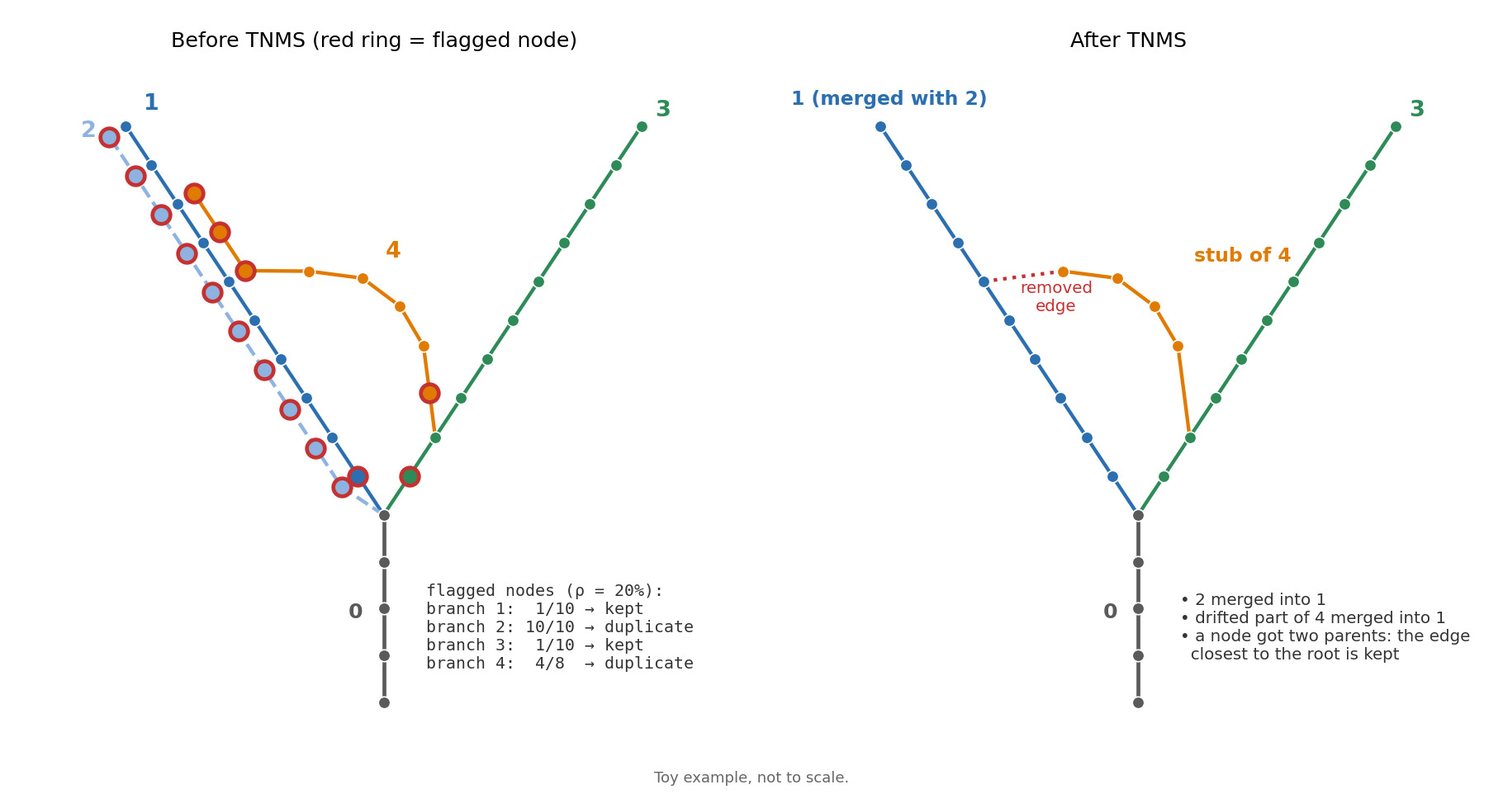
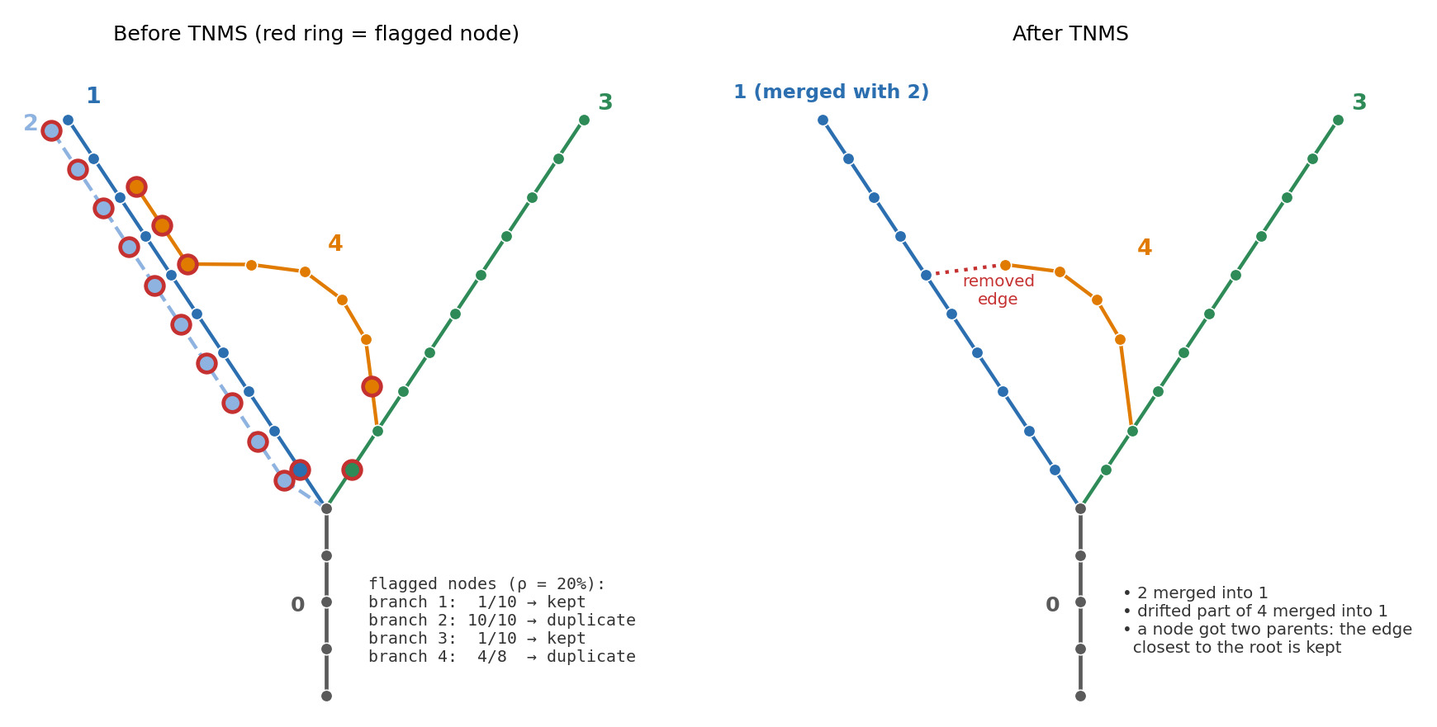
Revise RefTr review post
Rework the Training and Results sections, add the evaluation metrics
subsection, the datasets table, the method comparison figure and the
metrics figure, update the TNMS figure, and add a note on how the post
was written.

diff --git a/collections/_posts/2026-10-19-RefTr.md b/collections/_posts/2026-10-19-RefTr.md
@@ -12,11 +12,10 @@ pdf: "https://arxiv.org/pdf/2511.20823"
 
 # Highlights
 
-* RefTr extracts the **centerline tree** of tubular structures (airways, vessels) from 3D CT volumes, directly as a graph.
-* The tree is represented as a set of **confluent trajectories**: trajectories that share a common prefix and split at a predicted divergence index. The topology is therefore **valid by construction**.
-* A Transformer **Producer** proposes candidate trajectories, and a **Refiner** with shared weights improves them recurrently, with 2.4× fewer decoder parameters than Trexplorer Super (10.5M vs 25.2M).
-* During training, several predictions are assigned to each branch (**many-to-one matching**); at inference they are averaged, and leftover duplicates across patches are removed by a new **Tree Non-Maximum Suppression (TNMS)**. The authors also introduce **radius-aware** evaluation metrics.
-* Best point-level precision and recall on the three datasets (synthetic, ATM'22 airways, Parse 2022 pulmonary arteries); branch-level metrics are slightly below Trexplorer Super on Parse 2022.
+* RefTr is the **third iteration** of a tracking approach by the same group (after Trexplorer[^6] and Trexplorer Super[^7]) to extract the **centerline tree** of vessels or airways from 3D images, directly as a graph.
+* Like its predecessors, it relies on the same mechanisms as **DETR** (learned queries, Transformer decoder, Hungarian matching), applied to tracking.
+* Instead of tracking the tree **point by point**, it predicts and iteratively refines **whole trajectories**, which increases the detection rate and lets errors be corrected while a branch is being predicted. Represented as **confluent trajectories**, the tree is **valid by construction**.
+* It outperforms its predecessor Trexplorer Super on most benchmarks, and is **twice cheaper to train**, in both training time and GPU memory.
 * Code is available on the [official GitHub repo](https://github.com/RomStriker/RefTr).
 
 
@@ -24,7 +23,7 @@ pdf: "https://arxiv.org/pdf/2511.20823"
 
 # Introduction
 
-Extracting tubular trees such as vessels or airways is important for many clinical applications, such as surgical planning and navigation, or blood flow simulation. Most of the time, these applications need the full tree, and a segmentation alone is not enough: it shows where the tubes are, but not how they branch and connect. We need a model of the complete tree, represented as a centerline graph that is a valid tree and misses as few branches as possible: missing a small branch can lead to an incomplete assessment, so recall matters.
+Extracting tubular trees such as vessels or airways is important for many clinical applications, such as surgical planning and navigation, or blood flow simulation. Most of the time, these applications need the full tree, and a segmentation alone is not enough : it shows where the tubes are, but not how they branch and connect. We need a model of the complete tree, represented as a centerline graph that is a valid tree and misses as few branches as possible.
 
 To obtain such a structure, several approaches have been proposed, which the authors group into four families:
 
@@ -32,6 +31,10 @@ To obtain such a structure, several approaches have been proposed, which the aut
 * **Graph-based methods** (Relationformer[^3], Vesselformer[^4]) predict nodes and edges directly, but nothing guarantees a valid tree, and they scale poorly to large trees.
 * **Multiple-hypothesis tracking**[^5] keeps several candidate trees during reconstruction, but finally prunes all but one, discarding potentially useful structures.
 * **Tracking-based methods**, mainly Trexplorer[^6] and Trexplorer Super[^7] from the same group, follow the tree from its root, **one node at a time**. Each new node is classified as intermediate, bifurcation or end. These classifications are hard and imbalanced, which lowers recall, and an early mistake cannot be corrected.
+
+<div style="text-align:center">
+<img src="/collections/images/reftr/paradigms.jpg" width=900></div>
+<p style="text-align: center;font-style:italic">Figure 1. Three ways to extract a centerline tree. (a) Segmentation-based methods label voxels, then extract the centerline. (b) Point-by-point tracking adds one classified node at a time. (c) RefTr predicts whole trajectories from the patch center and refines them.</p>
 
 
 RefTr addresses these limitations and lists three contributions: (1) RefTr itself, (2) TNMS, an efficient algorithm to remove duplicate branches while preserving the tree topology, and (3) radius-aware evaluation metrics.
@@ -59,19 +62,17 @@ Output: centerline tree
 
 <div style="text-align:center">
 <img src="/collections/images/reftr/inference_overview.jpg" width=750></div>
-<p style="text-align: center;font-style:italic">Figure 1. Overview of the inference algorithm. TNMS is then applied once to the full tree (not shown).</p>
+<p style="text-align: center;font-style:italic">Figure 2. Overview of the inference algorithm.</p>
 
 ## Prediction and refinement
 
 <div style="text-align:center">
 <img src="/collections/images/reftr/architecture.jpg" width=750></div>
-<p style="text-align: center;font-style:italic">Figure 2. Overview of the model pipeline (figure from the paper, Fig. 1c).</p>
+<p style="text-align: center;font-style:italic">Figure 3. Overview of the model pipeline (figure from the paper, Fig. 1c).</p>
 
 ### Producer
 Features are extracted from a patch centered on a centerline voxel. An image encoder (a modified SwinUNETR, the same as in Trexplorer Super) extracts features, which are fed to the Producer, a single Transformer decoder block, together with 20 token sets, each describing a trajectory.
 Using the image features, the Producer maps the 20 trajectories to potential vessel branches starting from the patch center and outputs the 20 modified token sets.
-
-The 20 input token sets play the role of DETR's object queries (see [our DETR post](/2023/11/22/DETR.html)): they are fixed embeddings learned during training, the same for every patch. They act as a generic **template of trajectories**, independent of the image: they only become specific to the patch once cross-attention injects the image features.
 
 ### Trajectory representation
 
@@ -79,9 +80,9 @@ Each trajectory is represented by a **trajectory token set**.
 It contains:
 - 10 **node tokens**, each encoding the position and radius of a node
 - 1 **end token**, encoding the node number at which the branch ends.
-- 1 **divergence token**, encoding the route of the trajectory so it can be compared with other trajectories
+- 1 **divergence token**, encoding the route of the trajectory so it can be compared with other trajectories and predicts the node where two trajectories diverge.
 
-Unlike the context tokens, the trajectory tokens are not computed from an input. Like DETR's object queries, they are learned during training as a generic "identity card" of what a trajectory is, the same for every patch; the Producer and the Refiner then update them into trajectories adapted to the image content of the patch.
+The trajectory tokens are not computed from an input. Like DETR's object queries (see [our DETR post](/2023/11/22/DETR.html)), **they are learned during training as a generic "identity card" of what a trajectory is**, the same for every patch; the Producer and the Refiner then update them into trajectories adapted to the image content of the patch.
 
 ### Context tokens
 In addition to the 20 token sets, the Producer takes as input:
@@ -100,6 +101,8 @@ The Refiner takes the Producer’s rough proposals and **updates the trajectory 
 The memory bank **stores the refined token sets of the ancestor trajectories** from up to five previous patches.
 
 It gives the model a memory of what it already predicted upstream, which helps keep the right direction in large vessels where a single patch shows only part of the tube, and reduces duplicate branches across patches.
+
+It complements the past trajectory token. The past trajectory token is a short **geometric** summary (the last positions and radii leading to the patch center), with no image content, and mainly gives the direction to follow. The memory bank keeps the model's own **learned representation** of the previous branches, which carries image information from earlier patches over a longer range. The ablation confirms their different roles: without the past trajectory token, recall collapses (67.72 % to 37.07 % on ATM'22), while without the memory bank, precision drops (74.16 % to 61.27 %).
 
 ### Prediction heads
 
@@ -121,7 +124,7 @@ Two trajectories $$T_i$$ and $$T_j$$ share an identical prefix and separate only
 
 <div style="text-align:center">
 <img src="/collections/images/reftr/confluent_trajectories.jpg" width=750></div>
-<p style="text-align: center;font-style:italic">Figure 3. Three confluent trajectories and their pairwise divergence indices. Two copies of the same branch never diverge.</p>
+<p style="text-align: center;font-style:italic">Figure 4. Three confluent trajectories and their pairwise divergence indices. Two copies of the same branch never diverge.</p>
 
 
 
@@ -131,7 +134,7 @@ After the last refinement step, the 20 trajectories are merged into a few branch
 
 <div style="text-align:center">
 <img src="/collections/images/reftr/merging_trajectories.jpg" width=750></div>
-<p style="text-align: center;font-style:italic">Figure 4. The trajectory merging algorithm</p>
+<p style="text-align: center;font-style:italic">Figure 5. The trajectory merging algorithm</p>
 
 
 - **Step 1: make the divergences symmetric.** For each pair, the two predictions $$d_{ij}$$ and $$d_{ji}$$ are averaged and rounded.
@@ -148,11 +151,6 @@ After the last refinement step, the 20 trajectories are merged into a few branch
 | Divergence with another group | Mean of the divergences between their members |
 
 - **Step 4: build the subtree.** Starting from the patch center, groups that have not yet diverged share a single node, whose position and radius are averaged over these groups. Where two groups diverge, a bifurcation is created. Each branch is then cut at its end position: if it stops before the last node, it terminates; otherwise its last node becomes the center of a new patch.
-
-This representation maps directly to a tree: 
-- **shared prefixes become shared paths**,
-- **divergence indices become bifurcations**
-- **end positions become terminations**. 
  
 The tree topology is valid by construction, whatever the quality of the predictions. Valid does not mean correct, though: the output is always a tree, but not necessarily the right one.
 
@@ -170,7 +168,7 @@ Patch-level grouping only sees the 20 trajectories of one patch. Since neighbori
 
 <div style="text-align:center">
 <img src="/collections/images/reftr/tnms_example.jpg" width=800></div>
-<p style="text-align: center;font-style:italic">Figure 5. TNMS on a toy tree. Branch 1 and 3 are real (only their first node is flagged, 1/10). Branch 2 is a full duplicate of 1 (10/10 flagged) and is merged. Branch 4 drifts onto branch 1 (4/8 flagged): its drifted part is merged, the resulting cycle is broken, and the remaining stub can be removed at cleanup.</p>
+<p style="text-align: center;font-style:italic">Figure 6. TNMS on a toy tree. Branch 1 and 3 are real (only their first node is flagged, 1/10). Branch 2 is a full duplicate of 1 (10/10 flagged) and is merged. Branch 4 drifts onto branch 1 (4/8 flagged): its drifted nodes are merged into branch 1, which gives a branch 1 node two parents; only the edge from the parent closest to the root is kept, so the edge coming from branch 4 is removed.</p>
 
 The authors report that, with KD-tree queries, TNMS runs in $$O(N \log N)$$ and processes graphs with thousands of nodes in under a second on CPU.
 
@@ -178,7 +176,7 @@ The authors report that, with KD-tree queries, TNMS runs in $$O(N \log N)$$ and 
 
 # Training
 
-Training follows the same steps as inference (Figure 1), on a short chain of patches along the annotation, with two additions: each prediction is **matched** to a true branch, and a **loss** is computed against this branch at every step.
+Training follows the same steps as inference (Figure 2), on a short chain of patches along the annotation, with two additions: each prediction is **matched** to a true branch, and a **loss** is computed against this branch at every step.
 
 ```
 Repeat:
@@ -195,12 +193,11 @@ Repeat:
 
 <div style="text-align:center">
 <img src="/collections/images/reftr/training_sample.jpg" width=800></div>
-<p style="text-align: center;font-style:italic">Figure 6. A training sample: 6 consecutive patches along an annotated path, processed in order.</p>
+<p style="text-align: center;font-style:italic">Figure 7. A training sample: 6 consecutive patches along an annotated path, processed in order.</p>
 
 At inference, a patch is never processed alone: it receives a past trajectory and a memory bank from the patches explored before it. To learn to use this context, the model must see it during training. As in Trexplorer Super, a training sample is therefore a chain of **6 consecutive patches** along one annotated path, processed in order. The last patch of the chain has 5 predecessors, which matches the size of the memory bank (up to 5 previous patches).
 
-During training, the past trajectory comes from the annotation, not from the predictions. A batch contains 4 such samples.
-
+During training, **the past trajectory comes from the annotation**, not from the predictions. 
 ## Prediction
 
 Each patch goes through the same pipeline as at inference: the encoder computes the image features once, the Producer proposes 20 trajectories, and the Refiner updates them over 7 steps.
@@ -209,45 +206,65 @@ Each patch goes through the same pipeline as at inference: the encoder computes 
 
 <div style="text-align:center">
 <img src="/collections/images/reftr/decoder_architecture.jpg" width=600></div>
-<p style="text-align: center;font-style:italic">Figure 7. Architecture of a Producer/Refiner block (figure from the paper, Fig. 1b).</p>
+<p style="text-align: center;font-style:italic">Figure 8. Architecture of a Producer/Refiner block (figure from the paper, Fig. 1b).</p>
 
-The Producer and the Refiner are each a **single decoder block** with the same design (Figure 7) but **separate weights**. The Producer runs once, on the learned token sets; the Refiner runs 7 times, with the same weights, on its own output. The authors' ablation shows that sharing one block for both is worse: the Producer always receives the same learned tokens, while the Refiner receives tokens that already describe trajectories.
+The Producer and the Refiner are each a **single decoder block** with the same design (Figure 8) but **separate weights**. The Producer runs once, on the learned token sets; the Refiner runs 7 times, with the same weights, on its own output. 
 
 Each block chains four sub-layers: self-attention, cross-attention, past-memory attention and a feed-forward layer.
 
 ### Three attention mechanisms
 
-The three attention layers use the same queries, the current tokens of the patch, but attend to different keys and values (see [our DETR post](/2023/11/22/DETR.html) for how attention works):
+**The three attention layers use the same queries, the current tokens of the patch**, but attend to different keys and values.
 
-| Attention | Keys and values | What it brings |
-|---|---|---|
-| **Self-attention** | The current tokens themselves: the 20 token sets, the past trajectory token and the step token | Trajectories coordinate: they spread over the different branches (which makes the many-to-one matching possible), agree on shared prefixes, and read the context tokens |
-| **Cross-attention** | The image features of the current patch (in the code, a $$16^3$$ crop of the encoder output around the patch center) | Where the tubes are in this patch |
-| **Past-memory attention** | The token sets stored in the memory bank, from up to 5 previous patches | Where the tree comes from: it keeps the direction in large vessels, where a patch only shows part of a wide tube, and reduces duplicates across patches |
+Attention works like a chest of drawers: 
+- each key $$K$$ is the label of a drawer
+- each value $$V$$ its content
+- A query $$Q$$ is a question compared with all the labels
+- The answer is a mix of the contents of the drawers whose labels match it best. 
+
+Formally :
+- the queries $$Q = XW_Q$$ are computed from the current tokens $$X$$
+- the keys $$K = YW_K$$ and values $$V = YW_V$$ from a source $$Y$$
+
+$$W_Q$$, $$W_K$$ and $$W_V$$ are learned projection matrices: three linear layers, trained with the rest of the model, that turn each token into its query, key and value.
+
+$$\text{Attention}(Q, K, V) = \text{softmax}\left(\frac{QK^\top}{\sqrt{d}}\right) V$$
+
+$$QK^\top$$ compares each question with each label, the softmax turns these scores into weights that sum to 1 (which drawers to open), and multiplying by $$V$$ mixes the contents of these drawers; $$d$$ is the dimension of the keys. 
+
+| Attention | Source $$Y$$ of the keys $$K$$ and values $$V$$ | Example of question $$Q$$ (from a node token) | Role |
+|---|---|---|---|
+| **Self-attention** | The current tokens themselves: the 20 token sets, the past trajectory token and the step token | *"Which other trajectories head toward the same branch as me, and where do we split?"* | Trajectories see each other: they share out the branches between them, and read the context tokens (past trajectory, step). |
+| **Cross-attention** | The image features of the current patch  | *"Is there a tube at my position, and in which direction does it go?"* | Each token gathers the image evidence (where the tube is, its direction and width) needed to place its nodes and radii on a real branch. |
+| **Past-memory attention** | The token sets stored in the memory bank, from up to 5 previous patches | *"Which past nodes continue in my direction, and has this branch already been traced?"* | Where the tree comes from: it keeps the direction in large vessels, where a patch only shows part of a wide tube, and reduces duplicates across patches |
 
 In short, self-attention looks *within* the patch's trajectories, cross-attention looks at the *image*, and past-memory attention looks at the *past*.
 
+### Feed-forward layer
+
+The last sub-layer is a small MLP applied to each token separately. If attention fetches the contents of the drawers, the feed-forward layer is where each token processes what it fetched: attention moves information *between* tokens, the feed-forward layer transforms it *within* each token.
+
 ## Matching
 
-**Why it is needed.** The model predicts $$n = 20$$ trajectories, but a patch only contains $$m < 20$$ true branches, and the predictions come in no particular order. Before computing a loss, each prediction must be assigned a target branch. As in DETR, this is done with the Hungarian algorithm, on a cost made of the L1 distance between positions and radii.
+**Why it is needed.** The 20 predictions must each be assigned one of the $$m < 20$$ true branches before computing a loss. The assignment is done with the Hungarian algorithm, on the L1 distance between positions and radii.
 
-**Many-to-one.** DETR assigns one prediction per target and treats the others as "no object". RefTr instead wants all 20 predictions to be useful: the targets are **replicated** until there are as many targets as predictions, and the Hungarian algorithm assigns one copy to each prediction (Figure 8). Each branch thus receives several predictions, spread evenly (e.g. 10 + 10 for two branches). At inference, these copies are averaged into a single branch (see the merging step), which acts as an ensemble. Unlike one-to-many DETR variants, which discard the surplus predictions at inference, RefTr keeps and merges them.
+**Many-to-one.** DETR assigns one prediction per target and treats the others as "no object". RefTr instead wants all 20 predictions to be useful: the targets are **replicated** until there are as many targets as predictions, and the Hungarian algorithm assigns one copy to each prediction (Figure 9). Each branch thus receives several predictions, spread evenly (e.g. 10 + 10 for two branches). At inference, these copies are averaged into a single branch (see the merging step), which acts as an ensemble. 
 
 <div style="text-align:center">
 <img src="/collections/images/reftr/many_to_one_matching.jpg" width=750></div>
-<p style="text-align: center;font-style:italic">Figure 8. Many-to-one matching with 2 targets and 4 predictions. Replicating the targets lets the one-to-one Hungarian algorithm assign two predictions to each target.</p>
+<p style="text-align: center;font-style:italic">Figure 9. Many-to-one matching with 2 targets (A and B) and 4 predictions (P1 to P4). Replicating the targets lets the one-to-one Hungarian algorithm assign two predictions to each target.</p>
 
-**Computed once.** The matching is computed **only once per patch**, on the Producer's output (step 1), and the same assignment is kept for the 7 Refiner steps (Figure 9). The authors report that re-matching at every step destabilizes training: if a prediction could switch targets between steps, the Refiner could not learn to progressively align each trajectory with its branch.
+**Computed once.** The matching is computed **only once per patch on the Producer's output** (step 1), and the same assignment is kept for the 7 Refiner steps (Figure 10). The authors report that re-matching at every step destabilizes training: if a prediction could switch targets between steps, the Refiner could not learn to progressively align each trajectory with its branch.
 
 <div style="text-align:center">
 <img src="/collections/images/reftr/matching_once.jpg" width=800></div>
-<p style="text-align: center;font-style:italic">Figure 9. The matching is computed on the Producer's output and kept for all refinement steps.</p>
+<p style="text-align: center;font-style:italic">Figure 10. The matching is computed on the Producer's output and kept for all refinement steps.</p>
 
-The divergence targets follow from the matching: a pair of predictions inherits the divergence of the pair of branches it is matched to, and two predictions matched to the same branch should never diverge.
+The matching also gives the ground truth of the divergence head.
 
 ## Refinement and loss
 
-The Refiner steps are the same as at inference. The difference is that after **every** step $$s$$, including the Producer step $$s = 1$$, the heads decode the tokens and the predictions are compared with their matched branch:
+The Refiner steps are the same as at inference. The difference is that after **every** step $$s$$, including the Producer step $$s = 1$$, the heads decode the tokens and the predictions are compared with their matched branch :
 
 $$\mathcal{L} = \sum_s \left( \alpha_{pos} \mathcal{L}^{(s)}_{pos} + \alpha_{rad} \mathcal{L}^{(s)}_{rad} \right) + \alpha_{end} \mathcal{L}_{end} + \alpha_{div} \mathcal{L}_{div}$$
 
@@ -255,18 +272,15 @@ $$\mathcal{L} = \sum_s \left( \alpha_{pos} \mathcal{L}^{(s)}_{pos} + \alpha_{rad
 * **End and divergence losses** (L1) are only computed at the last step, where the trajectories are most refined.
 * The weights $$\alpha_{pos}=4.2$$, $$\alpha_{rad}=1.2$$, $$\alpha_{end}=0.9$$ and $$\alpha_{div}=0.3$$ were tuned on the validation split.
 
-In the code, the step losses of a patch are summed and the weights are updated **after each patch** (6 updates per batch)[^8].
-
-Refinement works because each step applies a **residual correction** to the tokens, re-reads the image with a better-informed query, and lets trajectories coordinate through self-attention. The positions are decoded from scratch from the tokens after every step, and the step token tells the Refiner which step it is at, so that it can adapt the size of its update.
 
 ### What is learnt
 
 Everything is trained jointly, from scratch, with this single loss:
 
 * the **image encoder** (a modified SwinUNETR): features describing the tubes in the patch;
-* the **20 learned token sets**: a generic, image-independent template of trajectories, the starting point of the Producer;
+* the **20 learned token sets**: a generic, image-independent "identity card" of what a trajectory is, the starting point of the Producer;
 * the encodings of the **past trajectory** and of the **step** number;
-* the **Producer**: turning the template into proposals adapted to the image and to the context;
+* the **Producer**: turning these identity cards into proposals adapted to the image and to the context;
 * the **Refiner**: a single correction, applied 7 times, that moves a set of trajectories closer to the branches. Since it is supervised after every step, it learns to improve both rough and nearly correct trajectories;
 * the four **heads**: positions, radii, end positions and divergences. The end and divergence heads are only supervised at the last step.
 
@@ -283,9 +297,56 @@ The next patch then starts again from the prediction step, with a new matching.
 
 # Data
 
-* **Synthetic** vessel trees, **ATM'22** (airways) and **Parse 2022** (pulmonary arteries), with the centerline ground truth and splits released with Trexplorer Super[^7]. Parse 2022 has only 72 training volumes.
-* **Radius-aware metrics.** A predicted node is a true positive if it lies within $$\max(1.5, \tau_{rad} \cdot r)$$ of an unmatched target node, where $$r$$ is the ground-truth radius; duplicates count as false positives. Point-level rAP, rAR and rF1 are averaged over $$\tau_{rad} \in [0.25, 0.75]$$ (step 0.05). Branch-level rBAP, rBAR and rBF1 count a branch as matched if a fraction $$\tau_{match} \in [0.4, 0.8]$$ of its nodes match. Graph-level metrics are the errors on Betti-0 (connected components) and Betti-1 (cycles). The authors state that conclusions are unchanged with the previous fixed thresholds.
-* **Implementation.** 4 A100 GPUs, 1.9M iterations, $$S = 8$$, $$L = 10$$, $$n = 20$$. Baselines were trained from scratch on the same splits with their authors' hyperparameters.
+The authors use three datasets, with the centerline ground truth and splits released with Trexplorer Super[^7]:
+
+| Dataset | Structure | Images | Train / val / test |
+|---|---|---|---|
+| **Synthetic** | Vessel trees | Synthetic 3D volumes, trees generated with the Synthetic Vascular Toolkit (SVT)[^9] | 368 / 32 / 100 |
+| **ATM'22** | Airways | Chest CT | 220 / 16 / 60 |
+| **Parse 2022** | Pulmonary arteries | CT pulmonary angiography (CTPA) | 72 / 8 / 20 |
+
+For the real datasets, the centerlines were extracted from the challenges' segmentation masks, after resampling the volumes to 0.5 mm isotropic resolution.
+
+
+# Evaluation metrics
+
+The authors extend the evaluation of Trexplorer Super with **radius-aware** matching tolerances (their third contribution). A predicted node is a true positive if it lies within
+
+$$\delta = \max(1.5,\ \tau_{rad} \cdot r)$$
+
+of a ground-truth node that has not been matched yet, where $$r$$ is the ground-truth radius at that node.
+Since each ground-truth node can only be matched once, duplicates count as false positives (Figure 11a).
+
+ The tolerance factor $$\tau_{rad}$$ is varied from 0.25 to 0.75 (step 0.05), and the metrics are averaged over these values, so that the results do not depend on one arbitrary tolerance.
+
+<div style="text-align:center">
+<img src="/collections/images/reftr/metrics.jpg" width=900></div>
+<p style="text-align: center;font-style:italic">Figure 11. Radius-aware matching (toy example, not to scale). (a) Point level: true positives, false positives (too far or duplicate) and missed nodes. (b) Branch level: a branch is found if enough of its nodes are matched.</p>
+
+**Point level**, averaged over $$\tau_{rad} \in \{0.25, 0.30, \dots, 0.75\}$$:
+
+* **rAP** (radius-aware average precision): fraction of the predicted nodes that are true positives.
+* **rAR** (radius-aware average recall): fraction of the ground-truth nodes that are matched.
+* **rF1**: F1 score, the harmonic mean of precision and recall.
+* **Radius MAE**: mean absolute error between predicted and ground-truth radii, on matched nodes.
+
+**Branch level**, with nodes matched at $$\tau_{rad} = 0.5$$: a predicted branch is a true positive if it covers at least a fraction $$\tau_{match}$$ of the nodes of a ground-truth branch not matched yet (Figure 11b). The metrics are averaged over $$\tau_{match} \in \{0.40, 0.45, \dots, 0.80\}$$:
+
+* **rBAP**: fraction of the predicted branches that are true positives.
+* **rBAR**: fraction of the ground-truth branches that are found.
+* **rBF1**: F1 score at branch level.
+
+Every branch counts the same, whatever its length.
+
+**Graph level:**
+
+* **Betti-0 error**: absolute error on the number of connected components.
+* **Betti-1 error**: absolute error on the number of cycles.
+
+A valid tree has one component and no cycle, so both errors are zero for a valid prediction.
+
+"Average" here means averaged over thresholds: the model outputs no confidence score, so there is no precision–recall curve as in object detection. The authors report that their conclusions are unchanged with the previous fixed thresholds.
+
 
 &nbsp;
 
@@ -295,9 +356,7 @@ The authors run three kinds of experiments: a comparison with the state of the a
 
 ## Comparison with the state of the art
 
-**Why.** To show that RefTr finds more branches than previous methods without adding false positives.
-
-**How.** RefTr is compared with Vesselformer (graph-based), Trexplorer and Trexplorer Super (tracking) on the three datasets. All baselines are retrained from scratch on the same splits. Results are the mean ± standard deviation over five runs, at point, branch and graph levels (full results in Tables 1 and 2 of the paper). F1 scores of the two best methods:
+RefTr is compared with Vesselformer (graph-based), Trexplorer and Trexplorer Super (tracking) on the three datasets. All baselines are retrained from scratch on the same splits. Results are the mean ± standard deviation over five runs, at point, branch and graph levels (full results in Tables 1 and 2 of the paper). F1 scores of the two best methods:
 
 | Dataset | Point rF1 (%), Trexplorer Super | Point rF1 (%), RefTr | Branch rBF1 (%), Trexplorer Super | Branch rBF1 (%), RefTr |
 |---|---|---|---|---|
@@ -311,11 +370,11 @@ The authors run three kinds of experiments: a comparison with the state of the a
 * **Branch level:** RefTr is the best on Synthetic and ATM'22, but slightly below Trexplorer Super on Parse 2022. The authors attribute this to small branches missing from the Parse ground truth: RefTr finds them (as checked by a radiologist) but they count as false positives, and every branch weighs the same regardless of its size. The small training set (72 volumes) is the other reason given.
 * **Radius:** the radius error of RefTr is higher than Trexplorer Super's on all datasets (e.g. 0.60 vs 0.40 on ATM'22), but stays below one voxel.
 * **Topology:** all tracking methods, RefTr included, produce valid trees (zero Betti errors), whereas Vesselformer produces hundreds of extra components and cycles on the real datasets.
-* **Qualitatively** (Figure 10), RefTr captures branches that Trexplorer Super misses.
+* **Qualitatively** (Figure 12), RefTr captures branches that Trexplorer Super misses.
 
 <div style="text-align:center">
 <img src="/collections/images/reftr/paper_fig2_qualitative.jpg" width=800></div>
-<p style="text-align: center;font-style:italic">Figure 10. Qualitative comparison on one sample per dataset (figure from the paper).</p>
+<p style="text-align: center;font-style:italic">Figure 12. Qualitative comparison on one sample per dataset (figure from the paper).</p>
 
 ## Efficiency
 
@@ -349,14 +408,32 @@ RefTr represents a tubular tree as confluent trajectories, which guarantees a va
 
 # Remarks
 
-* **What is new and what is inherited.** Many components come from Trexplorer Super, by the same group: the past trajectory token, training on chains of 6 patches ("Super Trajectory Training"), the focal cross-attention on a small feature crop, the encoder, the datasets and the evaluation framework. The core novelty is the **confluent trajectory representation** with the **Producer–Refiner recurrence**; TNMS and the radius-aware metrics are useful but secondary contributions.
-* **The root is given.** Inference starts from the ground-truth root of the tree, as in Trexplorer.
+* **What is new and what is inherited.** 
+Many components come from Trexplorer Super, by the same group: 
+- the past trajectory token, 
+- training on chains of 6 patches ("Super Trajectory Training"), 
+- the focal cross-attention on a small feature crop, 
+- the encoder, 
+- the datasets and the evaluation framework. 
+
+The core novelty is the **confluent trajectory representation** with the **Producer–Refiner recurrence**. 
+TNMS and the radius-aware metrics are useful but secondary contributions.
+
 * **TNMS and baselines.** The paper does not say whether TNMS was also applied to the baselines. Given its impact on precision in the ablation, this matters for the comparison.
-* **TNMS itself** is a well-designed heuristic rather than a learned component: thresholds are hand-tuned, the branch visited first is always kept, and it is only compared to "no TNMS".
-* **Untested choices.** The number of trajectories ($$n=20$$) and the TNMS thresholds are not studied.
-* **Results nuance.** On Parse 2022, branch-level metrics are slightly below Trexplorer Super, and the radius MAE is higher on all datasets.
-* **Encoder.** The 23M-parameter encoder is trained from scratch, which is hard with 72 training volumes (Parse 2022); a pretrained encoder is a natural next step, as the authors suggest.
-* **Code vs paper.** The README says the code is still being cleaned up. Some values differ from the paper: 9 node tokens per trajectory, a past trajectory of 5 positions encoded as 3 tokens (paper: up to 10), and $$\tau_{min} = 1.5$$ in the TNMS call (paper: 2.0).
+
+* **Results nuance.** On the real datasets, the gain over Trexplorer Super is clear on ATM'22, but small and mixed on Parse 2022, and the radius error is higher on all datasets. The strongest practical argument for RefTr is rather its efficiency: it halves the training time (18.2 vs 37.2 h) and the GPU memory (39.5 vs 73.9 GB), with a 2.4× smaller decoder.
+
+&nbsp;
+
+# How this post was written
+
+This review was written with the help of an AI assistant, used as an agent that could read the paper and the code, run commands and edit the post. I want to be transparent about how, and to encourage students to use such tools openly and in a way that makes them learn rather than outsource their understanding.
+
+* **What I did.** First, I read the paper ;). Before asking for any draft, I used the assistant to better understand the article, asking about the parts I found unclear. Then I prompted for a first draft with the outline I wanted. From there, we refined the draft together: I chose what to keep, rewrote sections in my own way, and validated every claim. Above all, I used the assistant as a tutor: I asked "why" each time something was unclear (why the matching is computed only once, what exactly is learned in the trajectory tokens, what the keys and values of each attention layer are...) until I could explain it myself, and I challenged its answers.
+* **What the assistant did.** Set up the blog environment, read the paper and the official code, proposed a first structure and draft, created most of the figures, checked numbers and claims against the paper and the code, and pointed out inconsistencies.
+* **What I learned from doing it this way.** The draft was a starting point, not the result. Several statements were imprecise or went beyond what the paper says, and figures needed corrections. They were caught because I questioned them and went back to the paper. The writing also needed work: some sentences were convoluted or redundant, and the level of detail was not always the one I wanted, so I asked for simpler formulations or rewrote them myself.
+
+All remaining errors and all opinions are mine. If you use an AI assistant for a review, use it to understand the paper, not to avoid reading it: ask questions, ask for sources, and check them.
 
 &nbsp;
 
@@ -370,4 +447,5 @@ RefTr represents a tubular tree as confluent trajectories, which guarantees a va
 [^6]: R. Naeem et al. Trexplorer: Recurrent DETR for topologically correct tree centerline tracking. MICCAI 2024.
 [^7]: R. Naeem et al. Trexplorer Super: Topologically correct centerline tree tracking of tubular objects in CT volumes. MICCAI 2025. [arXiv](https://arxiv.org/abs/2507.10881)
 [^8]: Implementation notes from the code: tokens are detached from the computation graph between refinement steps and between patches, so each step's loss trains the Refiner to improve a given state. Gradients are clipped (max norm 0.1) and the optimizer is AdamW with learning rate $$10^{-4}$$.
-[^9]: Implementation notes from the code: tokens are 512-dimensional vectors, decoders use 16 attention heads, and the divergence head takes a 1024-d input (two concatenated divergence tokens).
+[^9]: Z. A. Sexton et al. Rapid model-guided design of organ-scale synthetic vasculature for biomanufacturing. arXiv preprint 2023. [Code](https://github.com/zasexton/Synthetic-Vascular-Toolkit)
+[^10]: Implementation notes from the code: tokens are 512-dimensional vectors, decoders use 16 attention heads, and the divergence head takes a 1024-d input (two concatenated divergence tokens).
